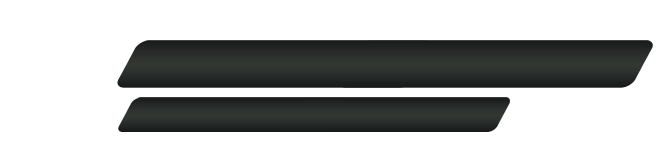
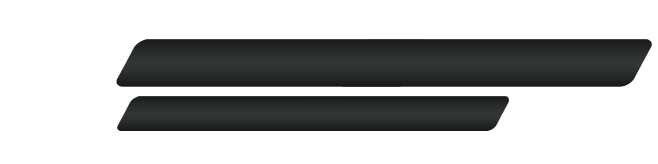
Added maxHP and maxMP to hero, queued hp bar files in assetManager, edited HP_bars_background.png

diff --git a/main.js b/main.js
@@ -6,6 +6,8 @@ ASSET_MANAGER.queueDownload("./img/hero/HeroSwordR.png");
 ASSET_MANAGER.queueDownload("./img/environment/Background.png");
 ASSET_MANAGER.queueDownload("./img/environment/52Tile.png");
 ASSET_MANAGER.queueDownload("./img/environment/52Tilea.png");
+ASSET_MANAGER.queueDownload("./img/hud/HP_bars.png");
+ASSET_MANAGER.queueDownload("./img/hud/HP_bars_background.png");
 ASSET_MANAGER.queueDownload("./img/projectiles/bullet.png");
 ASSET_MANAGER.queueDownload("./img/projectiles/fire.png");
 ASSET_MANAGER.queueDownload("./img/enemies/Cannon.png");

diff --git a/hero.js b/hero.js
@@ -23,9 +23,11 @@ function Hero(game) {
     this.canJump = true;
     this.ticksSinceShot = 0;
     
-    this.hp = 100; // hitpoints
-    this.mp = 100; // magic
     
+    this.maxHP = 100; // hitpoints
+    this.currentHP = 100;
+    this.maxMP = 100; // magic
+    this.currentMP = 100;
     
     /* Collison code work
     NOTE: Standard sprites are 55x60 this will need to be updated on different
